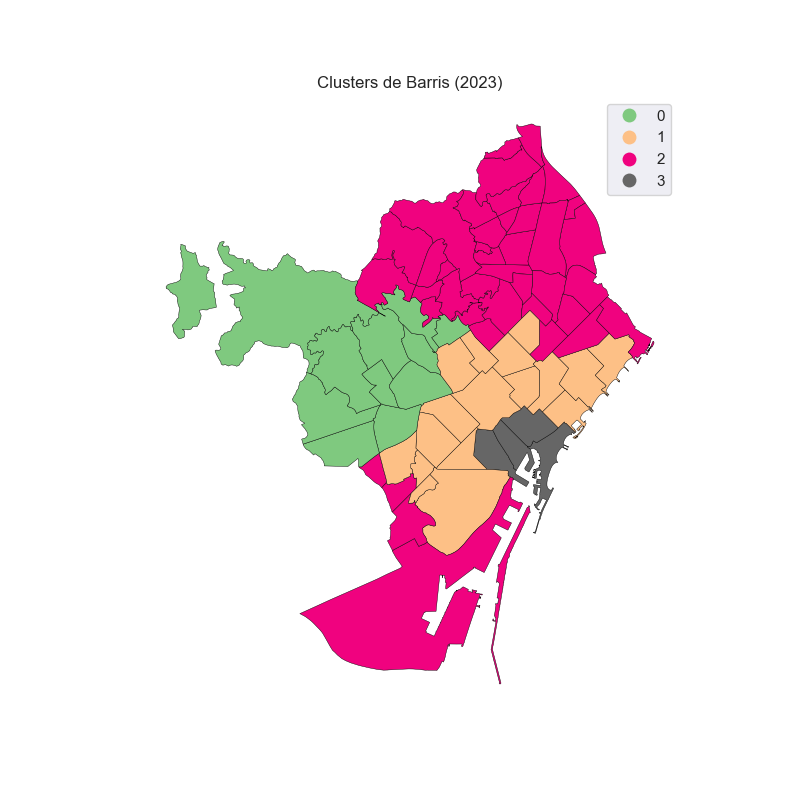
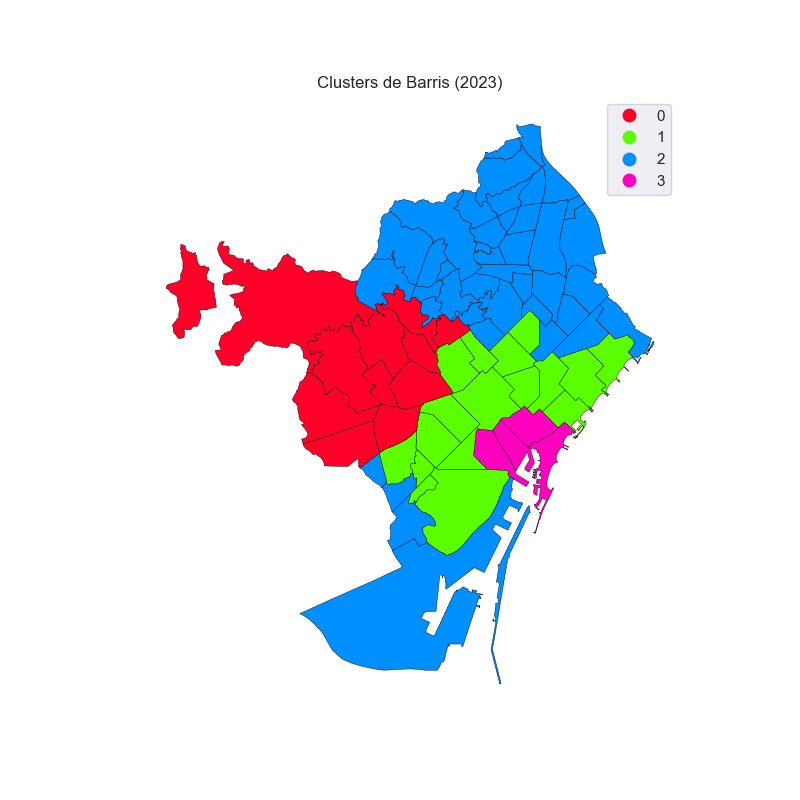
refactoring analisi 2023

Changed region(s): [[0.1875, 0.1562, 0.8125, 0.8438], [0.7812, 0.125, 0.8125, 0.25]]

diff --git a/README.md b/README.md
@@ -103,9 +103,6 @@ Un cop els canvis s' han aplicat, s' ha re-executat el notebook [eda.ipynb](note
 - Els resultats són lleugerament més bons amb les dades reduïdes. En aquest cas, el nombre de clúster òptim es veu molt clar en el gràfic de silhouette (5 clusters).
 
 
-**Observacions:**
-- Nombre òptim de clusters es 5, tot i que amb 4 també s' obtenen bons resultats.
-- El valor de silhouette amb k = 5 és lleugerament superior al obtingut amb KMeans.
 ## Selecció K deltes
  #### KMeans
  ![seleccio_k_deltes](results/figs/seleccio_k_deltes.png)
@@ -115,11 +112,10 @@ Un cop els canvis s' han aplicat, s' ha re-executat el notebook [eda.ipynb](note
 
 # Resum selecció de model i K
 
-| dataset | tipo dades | k | Comentari |
-|:--------|------------|----------|----------|
-|df_2015 | pca  | k=3 |Tant per a KMeans com Agglomerative, i amb mètode de colze i valors de silhouette, el nombre òptim de cluster és k=3. Utilitzarem kmeans per interpretabilitat i coneixements ja que Agglomerative no millora substancialment el clustering.
-|  df_2023 | pca        | k=4  | Resultats  de Silhouette similars per a KMeans i Agglomerative. El nombre de clusters, pot estar entre 2 i 4 segons silhouette en KMeans. EN base al mètode del colze, seleccionarem k=4 i analitzarem els resultats. |
-| deltes | pca  | k = 3          |  Ambós tècniques indiquen que k=3 és el nombre òptim de k. Per homogenitzar, utilitzarem KMeans com en la resta.|
+| dataset    | clusters   | model   | tipo_dades   | comentari                                                                                                                      |
+|---:|:-----------|:--------|:-------------|:-------------------------------------------------------------------------------------------------------------------------------|
+|  df_2015 | k=3        | kmeans  | pca          | Tot i que k=3 és més simple i interpretable, k=4 ens permet diferenciar altres perfils de barris que amb k=3 queden barrejats. |
+|  df_2023 | k=4        | kmeans  | pca          | Segunt amb la conclusió de 2015, s’ha seleccionat una solució amb k=4 per una major diferenciació entre perfils urbans. |
 
 # Clusters 2015
 ## Mapa Clusters
@@ -129,7 +125,6 @@ Un cop els canvis s' han aplicat, s' ha re-executat el notebook [eda.ipynb](note
 
 |                                       |            0 |             1 |             2 |            3 |
 |:--------------------------------------|-------------:|--------------:|--------------:|-------------:|
-| codi_barri                            |     2.5      |    46.8       |    30         |    26.0769   |
 | poblacio_total                        | 25042.2      | 15813.5       | 35124.1       | 23846.6      |
 | pct_pob_estrangera                    |     0.401387 |     0.133358  |     0.175897  |     0.126322 |
 | pct_pob_estrangera_occidental         |     0.162695 |     0.0243489 |     0.0653282 |     0.06528  |
@@ -193,7 +188,6 @@ Cluster 3
 | locals_serveis_professionals_1000_hab |     0.637956  |     1.06809   |     1.16425   |     0.185438 |
 | preu_mitja_m2                         |    17.1818    |    16.8529    |    13.5829    |    17.175    |
 | pisos_turistics_1000_hab              |     2.88351   |    10.2105    |     0.740882  |     6.27533  |
-
 ## Observacions
 Cluster 0
 - Barris amb rendes elevades (27k) i un alt percentatge de població amb estudis superiors.